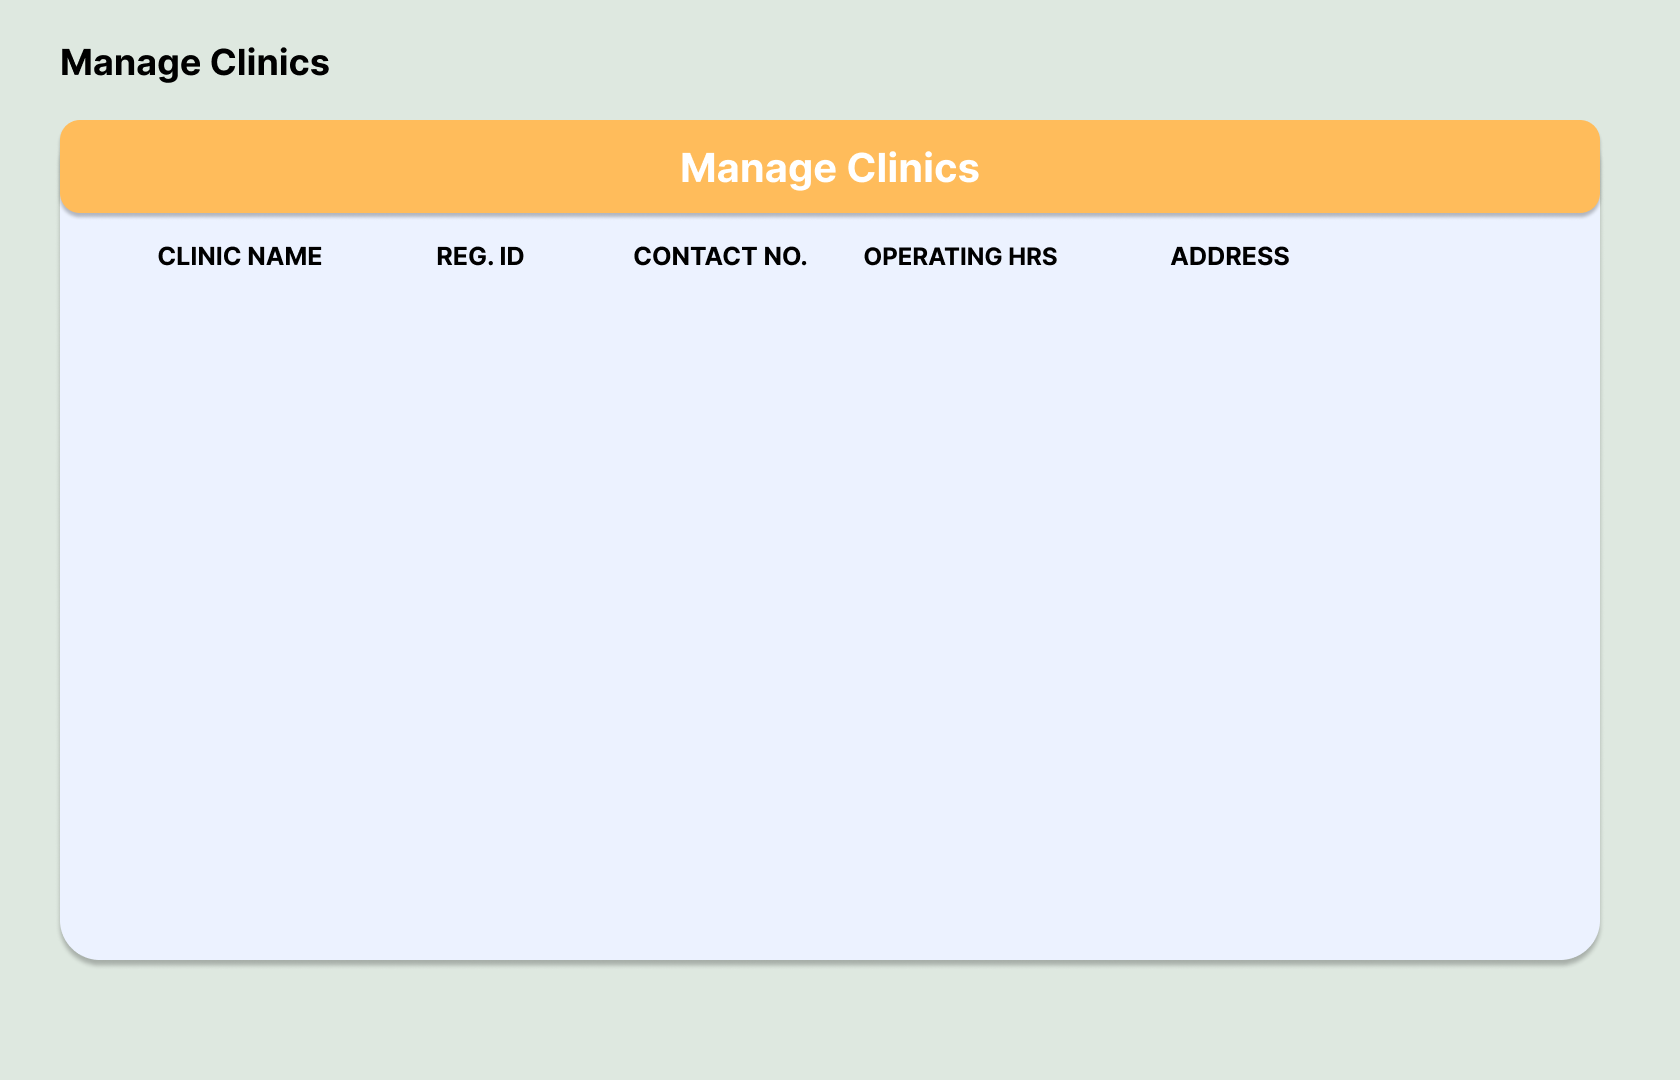
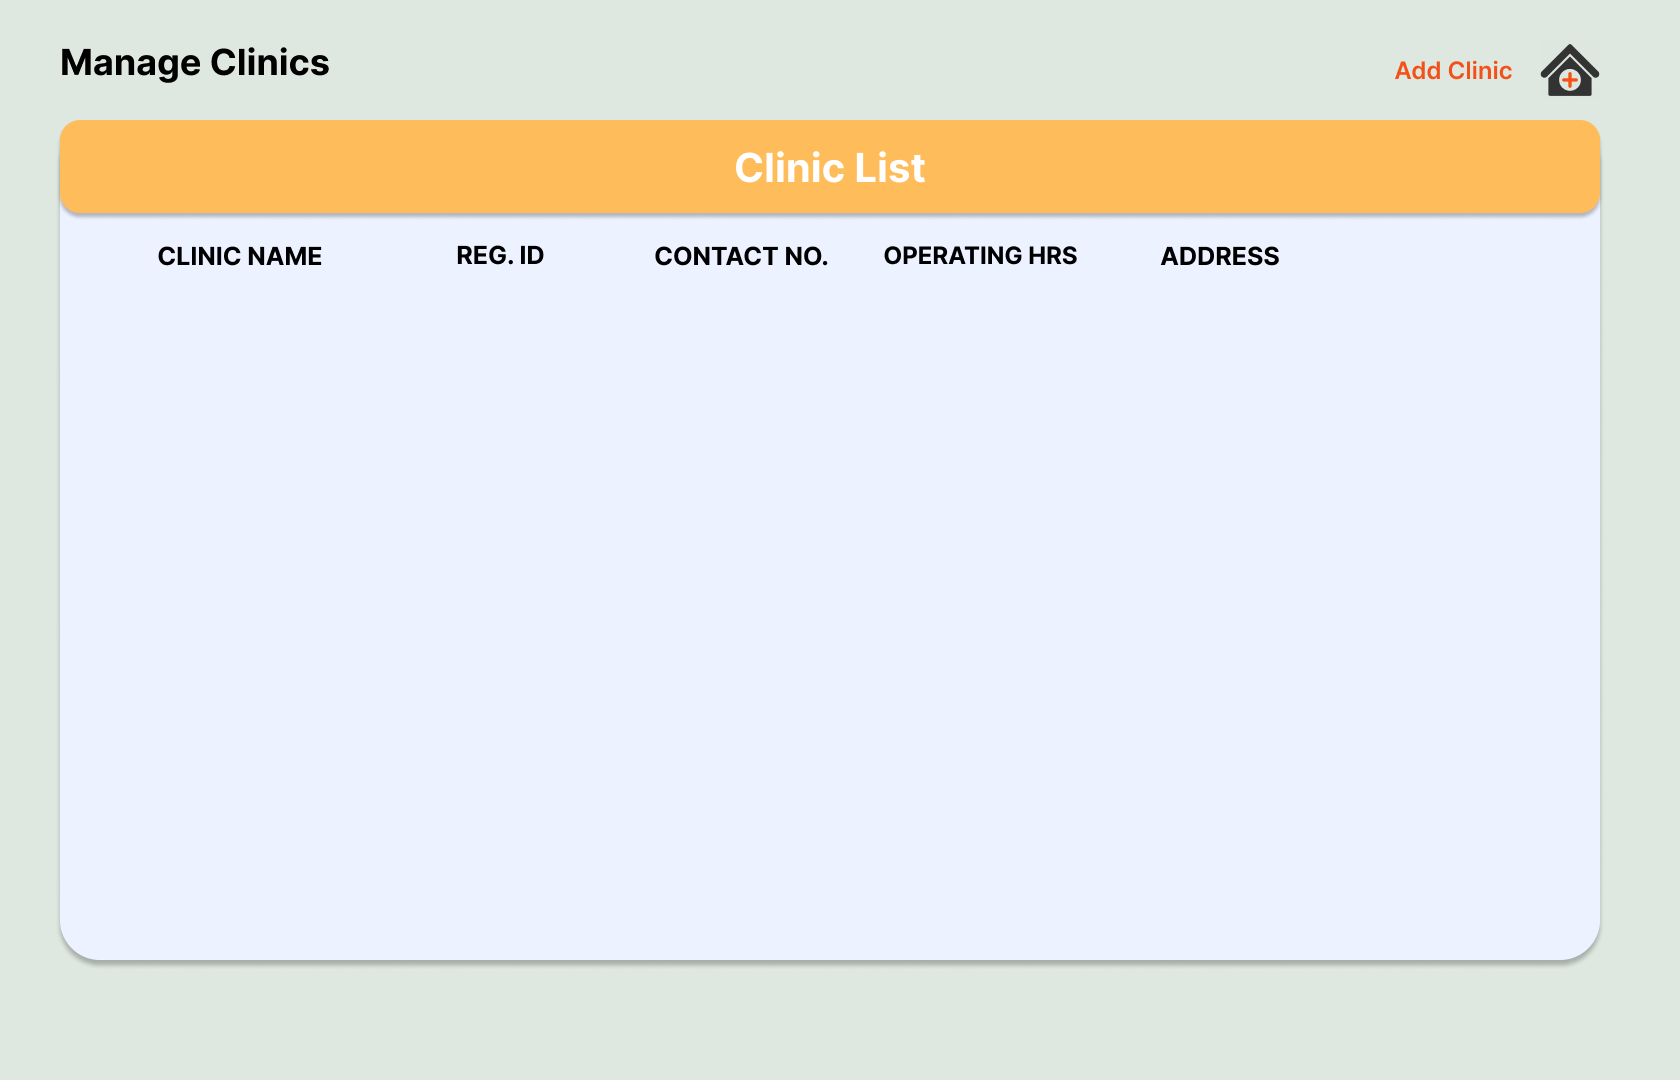
Update coding

diff --git a/views/browseClinic/adminBrowse.py b/views/browseClinic/adminBrowse.py
@@ -1,3 +1,7 @@
+from __future__ import annotations
+from typing import TYPE_CHECKING
+if TYPE_CHECKING:
+    from views.dashboard.adminDashboard import ClinicAdminDashboard
 from abc import ABC, abstractmethod
 import calendar
 import re
@@ -20,41 +24,76 @@ import tkintermapview
 
 
 class AdminBrowseClinic(Frame):
-    def __init__(self, parent=None, controller: ElementCreator = None):
+    def __init__(self, parent: ClinicAdminDashboard = None, controller: ElementCreator = None):
         super().__init__(parent, width=1, height=1, bg="#dee8e0", name="browseclinicpanel")
         self.controller = controller
         self.parent = parent
         gridGenerator(self, 84, 54, "#dee8e0")
         self.grid(row=0, column=12, columnspan=84, rowspan=54, sticky=NSEW)
-        
+        self.user = self.parent.user
         self.prisma = self.controller.mainPrisma
         self.createFrames()
         self.createElements()
+        self.createButton()
         self.manageClinic()
 
     def createFrames(self):
-        pass
+        self.addDoctorFrame = self.controller.frameCreator(
+            x=0, y=0, classname="adddoctor", root=self, framewidth=1680, frameheight=1080
+        )
+        self.unloadStackedFrames()
+
+    def unloadStackedFrames(self):
+        self.addDoctorFrame.grid_remove()
 
     def createElements(self):
-        self.controller.labelCreator(
+        self.bg = self.controller.labelCreator(
             ipath="assets/Dashboard/ClinicAdminAssets/ManageClinic/ManageClinicBg.png",
-            x=0, y=0, classname="secondarypanelbg", root=self
+            x=0, y=0, classname="manageclinicbg", root=self
         )
+        self.imgLabels = [
+            ("assets/Dashboard/ClinicAdminAssets/ManageClinic/AddClinicBg.png",
+             0, 0, "addclinicbg", self.addDoctorFrame)
+        ]
+        self.controller.settingsUnpacker(self.imgLabels, "label")
 
-        self.controller.buttonCreator(
-            ipath="assets/Dashboard/ClinicAdminAssets/ScrollFrame/scrollrefreshbutton.png",
+    def createButton(self):
+        d = {
+            "adminDashboard": [
+                "assets/Dashboard/ClinicAdminAssets/ScrollFrame/scrollrefreshbutton.png",
+                "assets/Appointments/ReturnButton.png",
+                "assets/Dashboard/ClinicAdminAssets/ManageClinic/AddClinic.png"
+            ]
+        }
+        self.Refreshbutton = self.controller.buttonCreator(
+            ipath=d["adminDashboard"][0],
             x=1385, y=135, classname="manageclinicrefresh", root=self, 
-            buttonFunction=lambda:print("manage clinic requests"), isPlaced=True
+            buttonFunction=lambda:print("manage clinic requests"), isPlaced=True,
+        )
+        self.Returnbutton = self.controller.buttonCreator(
+            ipath=d["adminDashboard"][1],
+            x=60, y=60, classname="clinicreturnbutton", root=self.addDoctorFrame,
+            buttonFunction=lambda: [self.addDoctorFrame.grid_remove()],
+        )
+        self.addClinicbutton = self.controller.buttonCreator(
+            ipath=d["adminDashboard"][2],
+            x=1540, y=40, classname="addclinic", root=self, 
+            buttonFunction=lambda:[
+                self.addDoctorFrame.grid(), self.addDoctorFrame.tkraise()], isPlaced=True
         )
 
     def manageClinic(self):
         prisma = self.prisma
-        clinics = prisma.clinic.find_many(
+        manageclinics = prisma.clinicenrolment.find_many(
+            where={
+                "status":"APPROVED"
+            },
             include={
-                "name": True,
+                "clinic":True,
+                "govRegDocSystem":True
             }
         )
-        h = len(clinics) * 120
+        h = len(manageclinics) * 120
         if h < 640:
             h = 640
         self.manageClinicScrolledFrame = ScrolledFrame(
@@ -62,16 +101,21 @@ class AdminBrowseClinic(Frame):
         )
         self.manageClinicScrolledFrame.grid_propagate(False)
         self.manageClinicScrolledFrame.place(x=60, y=280, width=1540, height=640)
+        
         COORDS = (20,20)
-        for clinic in clinics:
-            clinic.name
+        for clinics in manageclinics:
+            clinicName = clinics.clinic.name
+            clinicId = clinics.clinicId
+            clinicContact = clinics.clinic.phoneNum
+            clinicOpHrs = clinics.clinic.clinicHrs
+            clinicAddress = clinics.clinic.address
             X = COORDS[0]
             Y = COORDS[1]
             R = self.manageClinicScrolledFrame
             FONT = ("Inter", 12)
             self.controller.labelCreator(
                 ipath=r"assets/Dashboard/ClinicAdminAssets/ScrollFrame/scrollbutton.png", 
-                x=X, y=Y, classname=f"manageClinic{clinic.id}", root=R,
+                x=X, y=Y, classname=f"manageClinic{clinicId}", root=R,
                 isPlaced=True,
             )   
         
@@ -83,24 +127,52 @@ class AdminBrowseClinic(Frame):
             }
             self.viewClinicbutton = self.controller.buttonCreator(
                 ipath=d["clinicButton"][0],
-                x=X+1280, y=Y+30, classname=f"viewclinic{clinic.id}", root=R,
+                x=X+1280, y=Y+30, classname=f"viewclinic{clinicId}", root=R,
                 buttonFunction=lambda: [print('clinicview')],
                 isPlaced=True
             )
             self.deleteClinicbutton = self.controller.buttonCreator(
                 ipath=d["clinicButton"][1],
-                x=X+1360, y=Y+30, classname=f"deleteclinic{clinic.id}", root=R,
+                x=X+1360, y=Y+30, classname=f"deleteclinic{clinicId}", root=R,
                 buttonFunction=lambda: [print('clinicdelete')],
                 isPlaced=True
             )
+
             clinicName = self.controller.scrolledTextCreator(
-                x = X+50, y=Y+30, width=200, height=60, root=R, classname = f"{clinic.id}_name",
+                x = X+40, y=Y+30, width=240, height=70, root=R, classname = f"{clinicId}_name",
                 bg="#f1feff", hasBorder=False,
-                text=clinic.name, font=FONT, fg=BLACK,
+                text=clinics.clinic.name, font=FONT, fg=BLACK,
                 isDisabled=True, isJustified="center",
                 hasVbar=False
             )
-            
+            clinicId = self.controller.scrolledTextCreator(
+                x = X+320, y=Y+25, width=200, height=70, root=R, classname = f"{clinicId}_id",
+                bg="#f1feff", hasBorder=False,
+                text=clinics.clinicId, font=FONT, fg=BLACK,
+                isDisabled=True, isJustified="center",
+                hasVbar=False
+            ) 
+            clinicContact = self.controller.scrolledTextCreator(
+                x = X+560, y=Y+30, width=200, height=60, root=R, classname = f"{clinicId}_contact",
+                bg="#f1feff", hasBorder=False,
+                text=clinics.clinic.phoneNum, font=FONT, fg=BLACK,
+                isDisabled=True, isJustified="center",
+                hasVbar=False
+            ) 
+            clinicOpHrs = self.controller.scrolledTextCreator(
+                x = X+800, y=Y+25, width=200, height=60, root=R, classname = f"{clinicId}_opHrs",
+                bg="#f1feff", hasBorder=False,
+                text=clinics.clinic.clinicHrs, font=FONT, fg=BLACK,
+                isDisabled=True, isJustified="center",
+                hasVbar=False
+            ) 
+            clinicAddress = self.controller.scrolledTextCreator(
+                x = X+1040, y=Y+25, width=200, height=60, root=R, classname = f"{clinicId}_address",
+                bg="#f1feff", hasBorder=False,
+                text=clinics.clinic.address, font=FONT, fg=BLACK,
+                isDisabled=True, isJustified="center",
+                hasVbar=False
+            ) 
             COORDS = (
                 COORDS[0], COORDS[1] + 120
             )

diff --git a/views/appointments/adminManageAppointments.py b/views/appointments/adminManageAppointments.py
@@ -1,3 +1,7 @@
+from __future__ import annotations
+from typing import TYPE_CHECKING
+if TYPE_CHECKING:
+    from views.dashboard.adminDashboard import ClinicAdminDashboard
 from abc import ABC, abstractmethod
 import calendar
 import re
@@ -21,17 +25,18 @@ from tkwebview2.tkwebview2 import WebView2, have_runtime, install_runtime
 
 
 class AdminManageAppointments(Frame):
-    def __init__(self, parent=None, controller: ElementCreator = None):
+    def __init__(self, parent: ClinicAdminDashboard = None, controller: ElementCreator = None):
         super().__init__(parent, width=1, height=1, bg="#dee8e0", name="appointmentspanel")
         self.controller = controller
         self.parent = parent
         gridGenerator(self, 84, 54, "#dee8e0")
         self.grid(row=0, column=12, columnspan=84, rowspan=54, sticky=NSEW)
-
+        self.user = self.parent.user
         self.prisma = self.controller.mainPrisma
         self.createFrames()
         self.appointmentImgLabels()
         self.appointmentButtons()
+        self.appointmentList()
         self.creationFrame.grid_remove()
         self.viewFrame.grid_remove()
 
@@ -174,10 +179,18 @@ class AdminManageAppointments(Frame):
             buttonFunction=lambda:[self.manageAppointmentsFrame.grid()], isPlaced=True
         )
 
-        exampleList = []
-        [exampleList.append("Thing " + str(i))
-         for i in range(30) if i % 2 == 0]
-        h = len(exampleList) * 120
+    def appointmentList(self):
+        prisma =self.prisma
+        manageappointments = prisma.appointment.find_many(
+            where={
+                "status":"APPROVED"
+            },
+            include={
+                "patient":True,
+                "doctor":True
+            }
+        )
+        h = len(manageappointments) * 120
         if h < 380:
             h = 380
         self.viewAppointmentScrolledFrame = ScrolledFrame(
@@ -185,16 +198,19 @@ class AdminManageAppointments(Frame):
         )
         self.viewAppointmentScrolledFrame.grid_propagate(False)
         self.viewAppointmentScrolledFrame.place(x=70, y=260, width=1520, height=420)
-        initialcoordinates = (20,20)
-        for appointment in exampleList:
-            X = initialcoordinates[0]
-            Y = initialcoordinates[1]
-            self.controller.textElement(
-                ipath=r"assets/Dashboard/ClinicAdminAssets/ScrollFrame/scrollbutton.png", x=X, y=Y,
-                classname=f"appointment{appointment}", root=self.viewAppointmentScrolledFrame,
-                text=appointment, size=30, font=INTER,
+        COORDS = (20,20)
+        for appointment in manageappointments:
+            startTime= appointment.startTime
+            X = COORDS[0]
+            Y = COORDS[1]
+            R = self.viewAppointmentScrolledFrame
+            FONT = ("Inter", 12)
+            self.controller.labelCreator(
+                ipath="assets/Dashboard/ClinicAdminAssets/ScrollFrame/scrollbutton.png", x=X, y=Y,
+                classname=f"appointmentlist{appointment.id}", root=R,
                 isPlaced=True,
             )
+
             d = {
             "appointmentButton": [
                 "assets/Dashboard/ClinicAdminAssets/ScrollFrame/view.png",
@@ -203,17 +219,26 @@ class AdminManageAppointments(Frame):
             }
             self.viewbutton = self.controller.buttonCreator(
             ipath=d["appointmentButton"][0],
-            x=X+1280, y=Y+30, classname=f"viewbutton{appointment}", root=self.viewAppointmentScrolledFrame,
+            x=X+1280, y=Y+30, classname=f"viewbutton{appointment.id}", root=self.viewAppointmentScrolledFrame,
                 buttonFunction=lambda: [print('view')],
                 isPlaced=True
             )
             self.deletebutton = self.controller.buttonCreator(
             ipath=d["appointmentButton"][1],
-            x=X+1360, y=Y+30, classname=f"deletebutton{appointment}", root=self.viewAppointmentScrolledFrame,
+            x=X+1360, y=Y+30, classname=f"deletebutton{appointment.id}", root=self.viewAppointmentScrolledFrame,
                 buttonFunction=lambda: [print('delete')],
                 isPlaced=True
             )
-            initialcoordinates = (
-                initialcoordinates[0], initialcoordinates[1] + 120
+
+            startTime = self.controller.scrolledTextCreator(
+                x = X+50, y=Y+30, width=200, height=60, root=R, classname = f"{appointment.id}_name",
+                bg="#f1feff", hasBorder=False,
+                text=appointment.startTime, font=FONT, fg=BLACK,
+                isDisabled=True, isJustified="center",
+                hasVbar=False
+            )
+
+            COORDS = (
+                COORDS[0], COORDS[1] + 120
             )
         

diff --git a/views/dashboard/adminDashboard.py b/views/dashboard/adminDashboard.py
@@ -1,7 +1,7 @@
 from __future__ import annotations
 from typing import TYPE_CHECKING
 if TYPE_CHECKING:
-    from views.mainDashboard import Dashboard
+    from views.dashboard.adminDashboard import ClinicAdminDashboard
 import calendar
 import datetime as dt
 import re
@@ -28,7 +28,7 @@ from views.mainViewAppointments import MainViewAppointmentsInterface
 
 
 class ClinicAdminDashboard(Frame):
-    def __init__(self, parent: Dashboard = None, controller: ElementCreator = None):
+    def __init__(self, parent: ClinicAdminDashboard = None, controller: ElementCreator = None):
         super().__init__(parent, width=1, height=1, bg="#dee8e0", name="primarypanel")
         self.controller = controller
         self.parent = parent
@@ -223,7 +223,7 @@ class ClinicAdminDashboard(Frame):
         )
         self.Returnbutton = self.controller.buttonCreator(
             ipath=d["adminDashboard"][1],
-            x=60, y=40, classname="returnbutton", root=self.doctorListFrame,
+            x=60, y=40, classname="doctorreturnbutton", root=self.doctorListFrame,
             buttonFunction=lambda: [self.doctorListFrame.grid_remove()],
         )
         self.Addbutton = self.controller.buttonCreator(
@@ -309,6 +309,7 @@ class ClinicAdminDashboard(Frame):
                 buttonFunction=lambda: [print('delete')],
                 isPlaced=True
             )
+            
             doctorName = self.controller.scrolledTextCreator(
                 x = X+50, y=Y+30, width=200, height=60, root=R, classname = f"{doctor.id}_name",
                 bg="#f1feff", hasBorder=False,

diff --git a/views/patientRequests/adminManageRequests.py b/views/patientRequests/adminManageRequests.py
@@ -1,3 +1,7 @@
+from __future__ import annotations
+from typing import TYPE_CHECKING
+if TYPE_CHECKING:
+    from views.dashboard.adminDashboard import ClinicAdminDashboard
 from abc import ABC, abstractmethod
 import calendar
 import re
@@ -20,13 +24,13 @@ import tkintermapview
 
 
 class AdminManagePatientRequests(Frame):
-    def __init__(self, parent=None, controller: ElementCreator = None):
+    def __init__(self, parent: ClinicAdminDashboard = None, controller: ElementCreator = None):
         super().__init__(parent, width=1, height=1, bg="#dee8e0", name="requestspanel")
         self.controller = controller
         self.parent = parent
         gridGenerator(self, 84, 54, "#dee8e0")
         self.grid(row=0, column=12, columnspan=84, rowspan=54, sticky=NSEW)
-
+        self.user = self.parent.user
         self.prisma = self.controller.mainPrisma
         self.createFrames()
         self.patientImgLabels()

diff --git a/views/clinicRequests/adminGRDRequests.py b/views/clinicRequests/adminGRDRequests.py
@@ -1,3 +1,7 @@
+from __future__ import annotations
+from typing import TYPE_CHECKING
+if TYPE_CHECKING:
+    from views.dashboard.adminDashboard import ClinicAdminDashboard
 from abc import ABC, abstractmethod
 import calendar
 import re
@@ -20,13 +24,13 @@ import tkintermapview
 
 
 class AdminGRDRequest(Frame):
-    def __init__(self, parent=None, controller: ElementCreator = None):
+    def __init__(self, parent: ClinicAdminDashboard = None, controller: ElementCreator = None):
         super().__init__(parent, width=1, height=1, bg="#dee8e0", name="clinicgrdrequests")
         self.controller = controller
         self.parent = parent
         gridGenerator(self, 84, 54, "#dee8e0")
         self.grid(row=0, column=12, columnspan=84, rowspan=54, sticky=NSEW)
-
+        self.user = self.parent.user
         self.prisma = self.controller.mainPrisma
         self.createFrames()
         self.createElements()
